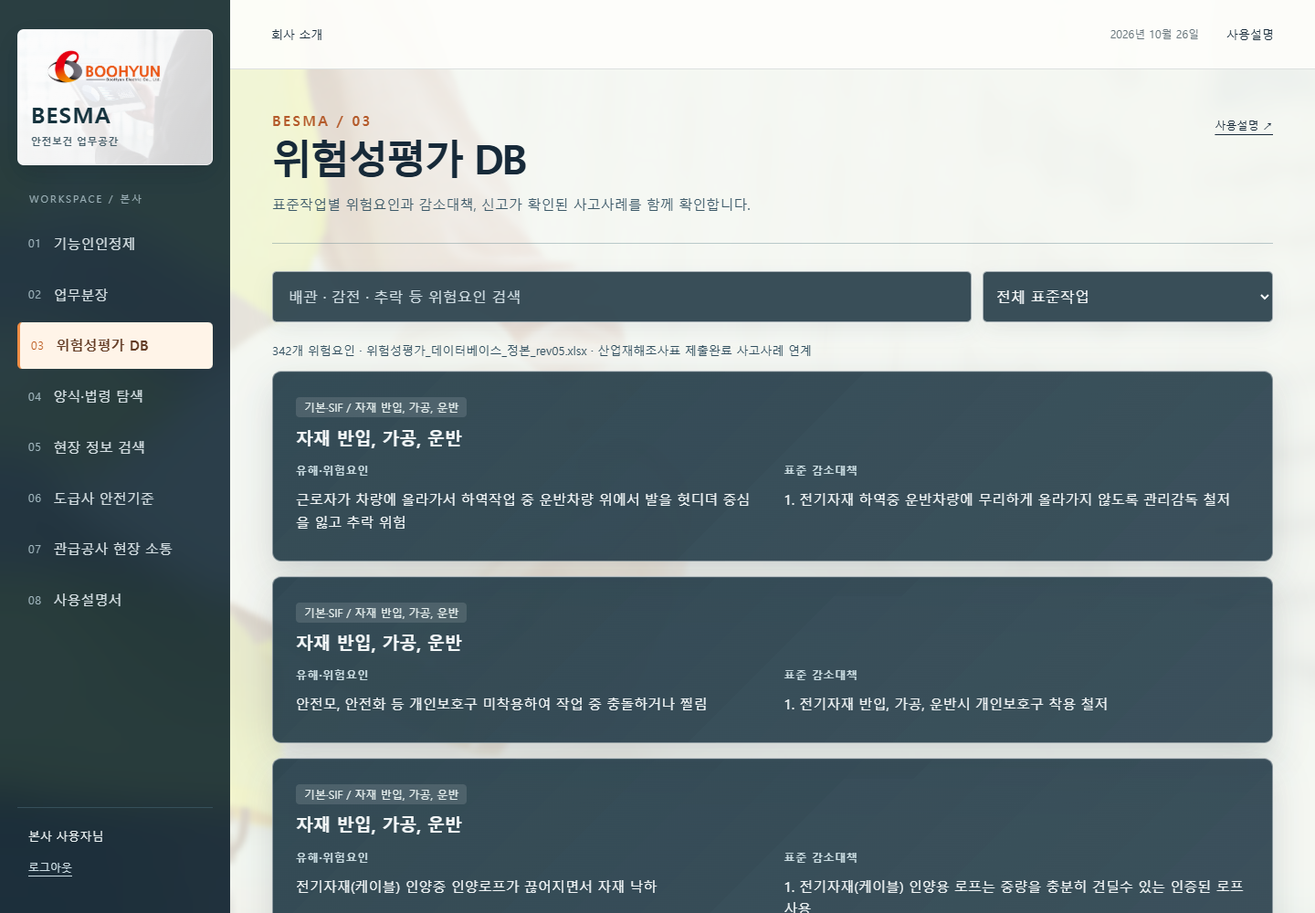
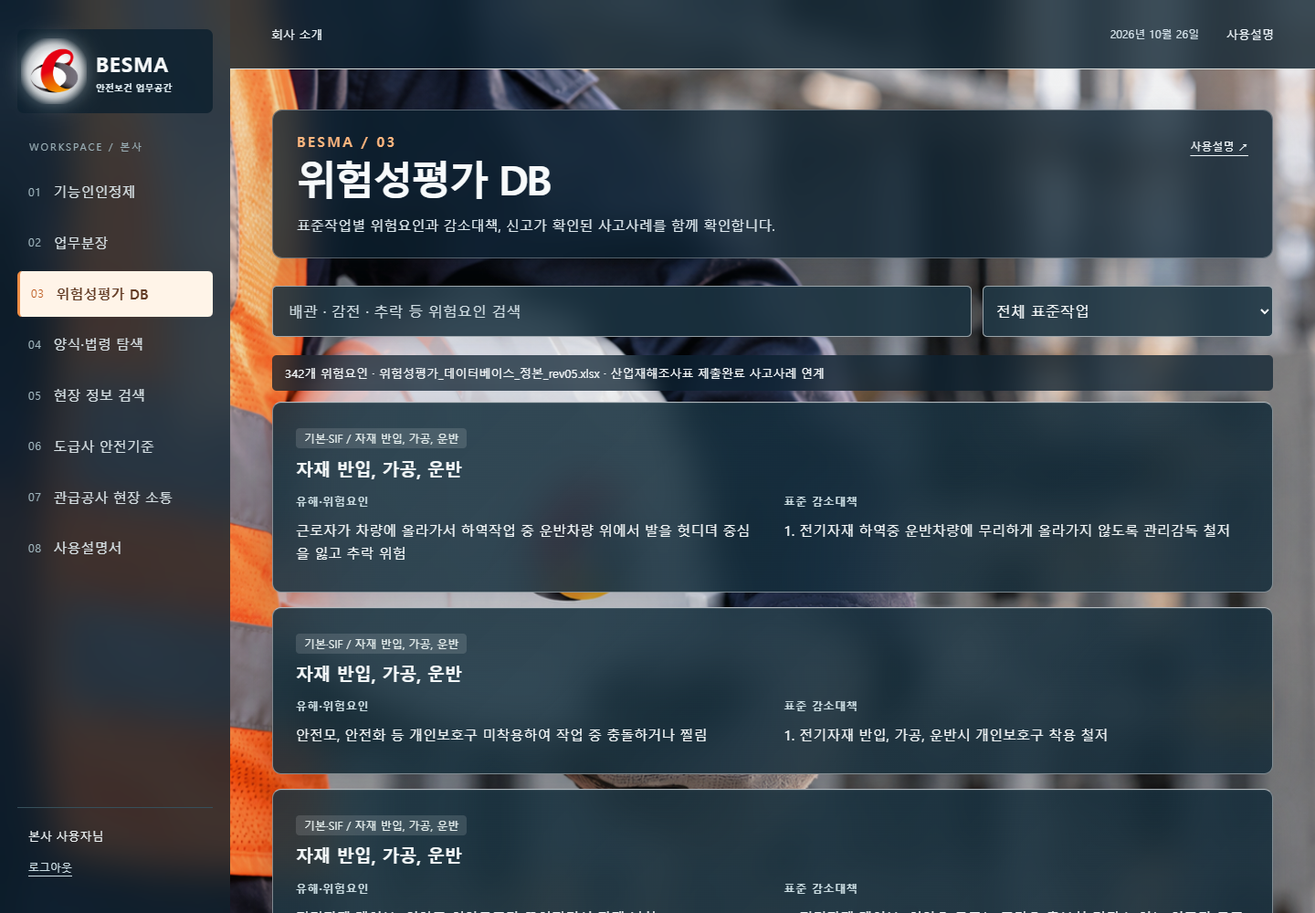
feat: show branded safety background and seal inactive HQ routes before mount

diff --git a/frontend/workspace-nav.js b/frontend/workspace-nav.js
@@ -1,10 +1,13 @@
 /* Adds the HQ information architecture without replacing existing Vue modules. */
 const API='https://api.besma.co.kr';let currentToken='',profile=null,inflight=false,lastPath='';
 const items=[['기능인인정제','functional'],['업무분장','duties'],['위험성평가 DB','risks'],['양식·법령 탐색','forms'],['현장 정보 검색','sites'],['도급사 안전기준','contractors'],['관급공사 현장 소통','government'],['사용설명서','guide']];
-const preserved=/^\/hq-safe\/(functional-eval(?:-monitoring|-rewards-sanctions|\/grade-report)?|documents(?:\/.*)?|document-explorer|document-instances\/.*|government-contact|safety-policy-goals|user-guide)\/?$/;
-function key(){const p=location.pathname;return p.includes('functional-eval')||p.includes('user-guide')?'functional':p.includes('document-explorer')||p.includes('safety-policy-goals')?'forms':p.includes('documents')||p.includes('government-contact')?'government':'functional';}
+const preserved=/^\/hq-safe\/(functional-eval(?:-monitoring|-rewards-sanctions|\/grade-report)?|documents(?:\/.*)?|document-explorer|document-instances\/.*|government-contact|communications|safety-policy-goals|user-guide)\/?$/;
+function key(){const p=location.pathname;return p.includes('functional-eval')||p.includes('user-guide')?'functional':p.includes('document-explorer')||p.includes('safety-policy-goals')?'forms':p.includes('documents')||(p.includes('government-contact')||p.includes('communications'))?'government':'functional';}
 function style(){if(document.getElementById('boohyun-renewal-style'))return;const s=document.createElement('link');s.id='boohyun-renewal-style';s.rel='stylesheet';s.href='/assets/workspace-legacy.css';document.head.append(s);}
-function menus(){const original=document.querySelector('.layout-menu:not([data-workspace-owned])');if(!original||original.dataset.workspaceNav)return;original.dataset.workspaceNav='1';original.hidden=true;original.setAttribute('aria-hidden','true');original.inert=true;const nav=document.createElement('nav');nav.className='layout-menu workspace-owned-menu';nav.dataset.workspaceOwned='1';nav.setAttribute('aria-label','본사 업무');original.before(nav);for(const [i,[title,id]]of items.entries()){const a=document.createElement('a');a.href='/workspace.html#'+id;a.className='workspace-menu-link';a.textContent=String(i+1).padStart(2,'0')+'   '+title;if(id===key())a.classList.add('router-link-active');nav.append(a);if(id==='functional'&&key()==='functional'){const sub=document.createElement('div');sub.className='workspace-subnav';for(const [text,path]of [['평가·등급 조회','functional-eval'],['진행현황','functional-eval-monitoring'],['검토·승인 / 포상·제재','functional-eval-rewards-sanctions']]){const a=document.createElement('a');a.href='/hq-safe/'+path;a.textContent=text;sub.append(a);}nav.append(sub);}if(id==='government'&&key()==='government'){const sub=document.createElement('div');sub.className='workspace-subnav';for(const [text,path]of [['취합','documents'],['소통','government-contact']]){const a=document.createElement('a');a.href='/hq-safe/'+path;a.textContent=text;sub.append(a);}nav.append(sub);}}const brand=document.querySelector('.sidebar-brand:not([data-workspace-owned])');if(brand&&!document.querySelector('.workspace-company-brand')){brand.hidden=true;brand.setAttribute('aria-hidden','true');const link=document.createElement('a');link.href='/company.html';link.className='workspace-company-brand';link.dataset.workspaceOwned='1';const img=document.createElement('img');img.src='/workspace-assets/boohyun-logo.png';img.alt='부현전기';const text=document.createElement('strong');text.textContent='BESMA';const small=document.createElement('small');small.textContent='안전보건 업무공간';link.append(img,text,small);brand.before(link);}const content=document.querySelector('.layout-content');if(content&&!content.querySelector('.workspace-context-help')){const a=document.createElement('a');a.className='workspace-context-help';a.href='/workspace.html#guide/'+key();a.textContent=items.find(x=>x[1]===key())?.[0]+' 사용설명 ↗';const header=content.querySelector('.layout-header');if(header)header.after(a);}}
-function loginDesign(){if(!location.pathname.startsWith('/login'))return;style();const entry=document.querySelector('.login-entry'),shell=document.querySelector('.login-shell');if(entry&&shell&&!shell.dataset.workspaceLogin){shell.dataset.workspaceLogin='1';entry.click();}const stack=document.querySelector('.login-stack');if(stack&&!document.querySelector('.login-company-intro')){const c=document.createElement('div');c.className='login-company-intro';const k=document.createElement('p');k.textContent='BOOHYUN ELECTRIC / BESMA';const h=document.createElement('h1');h.textContent='안전을 살피는\n부현전기 안전보건실';const p=document.createElement('p');p.textContent='현장의 정보와 사람, 안전기준을 연결합니다.';const a=document.createElement('a');a.href='/company.html';a.textContent='BESMA 소개 ↗';c.append(k,h,p,a);stack.before(c);}}
-async function check(){loginDesign();const token=localStorage.getItem('besma_token')||'';if(!token){currentToken='';profile=null;return;}if(inflight)return;if(token!==currentToken){inflight=true;try{const r=await fetch(API+'/workspace/bootstrap',{headers:{Authorization:'Bearer '+token},cache:'no-store'});if(token!==localStorage.getItem('besma_token'))return;currentToken=token;profile=r.ok?await r.json():null;}catch{}finally{inflight=false;}}if(!profile)return;const path=location.pathname;if(path.startsWith('/login')){location.replace('/workspace.html');return;}if(path.startsWith('/hq-safe/')||path.startsWith('/hq-other/')){if(!preserved.test(path)){location.replace('/workspace.html');return;}style();menus();lastPath=path;}}
-new MutationObserver(()=>{if(profile)menus();loginDesign();}).observe(document.documentElement,{childList:true,subtree:true});addEventListener('storage',()=>{currentToken='';profile=null;check();});check();setInterval(check,1500);
+function releaseGate(){document.documentElement.classList.remove('besma-route-gate','besma-login-preparing');document.getElementById('besma-route-status')?.remove();}
+function holdGate(){document.documentElement.classList.add('besma-route-gate');}
+function menus(){const original=document.querySelector('.layout-menu:not([data-workspace-owned])');if(!original||original.dataset.workspaceNav)return;original.dataset.workspaceNav='1';original.hidden=true;original.setAttribute('aria-hidden','true');original.inert=true;const nav=document.createElement('nav');nav.className='layout-menu workspace-owned-menu';nav.dataset.workspaceOwned='1';nav.setAttribute('aria-label','본사 업무');original.before(nav);for(const [i,[title,id]]of items.entries()){const a=document.createElement('a');a.href='/workspace.html#'+id;a.className='workspace-menu-link';a.textContent=String(i+1).padStart(2,'0')+'   '+title;if(id===key())a.classList.add('router-link-active');nav.append(a);if(id==='functional'&&key()==='functional'){const sub=document.createElement('div');sub.className='workspace-subnav';for(const [text,path]of [['평가·등급 조회','functional-eval'],['진행현황','functional-eval-monitoring'],['검토·승인 / 포상·제재','functional-eval-rewards-sanctions']]){const a=document.createElement('a');a.href='/hq-safe/'+path;a.textContent=text;sub.append(a);}nav.append(sub);}if(id==='government'&&key()==='government'){const sub=document.createElement('div');sub.className='workspace-subnav';for(const [text,path]of [['취합','documents'],['소통','government-contact']]){const a=document.createElement('a');a.href='/hq-safe/'+path;a.textContent=text;sub.append(a);}nav.append(sub);}}const brand=document.querySelector('.sidebar-brand:not([data-workspace-owned])');if(brand&&!document.querySelector('.workspace-company-brand')){brand.hidden=true;brand.setAttribute('aria-hidden','true');const link=document.createElement('a');link.href='/company.html';link.className='workspace-company-brand';link.dataset.workspaceOwned='1';const img=document.createElement('img');img.src='/workspace-assets/boohyun-symbol.svg';img.alt='부현전기';const text=document.createElement('strong');text.textContent='BESMA';const small=document.createElement('small');small.textContent='안전보건 업무공간';link.append(img,text,small);brand.before(link);}const content=document.querySelector('.layout-content');if(content&&!content.querySelector('.workspace-context-help')){const a=document.createElement('a');a.className='workspace-context-help';a.href='/workspace.html#guide/'+key();a.textContent=items.find(x=>x[1]===key())?.[0]+' 사용설명 ↗';const header=content.querySelector('.layout-header');if(header)header.after(a);}releaseGate();}
+function loginDesign(){if(!location.pathname.startsWith('/login'))return;style();const logo=document.querySelector('.landing-logo');if(logo&&!logo.src.endsWith('/boohyun-symbol.svg')){logo.src='/workspace-assets/boohyun-symbol.svg';logo.alt='부현전기 심볼';}const entry=document.querySelector('.login-entry'),shell=document.querySelector('.login-shell');if(entry&&shell&&!shell.dataset.workspaceLogin){shell.dataset.workspaceLogin='1';entry.click();}const stack=document.querySelector('.login-stack');if(stack&&!document.querySelector('.login-company-intro')){const c=document.createElement('div');c.className='login-company-intro';const k=document.createElement('p');k.textContent='BOOHYUN ELECTRIC / BESMA';const h=document.createElement('h1');h.textContent='안전지상주의\n부현전기 안전보건실';const p=document.createElement('p');p.textContent='현장의 정보와 사람, 안전기준을 연결합니다.';const a=document.createElement('a');a.href='/company.html';a.textContent='BESMA 소개 ↗';const photo=document.createElement('img');photo.className='login-safety-preview';photo.src='/workspace-assets/boohyun-helmet-underarm-v1.png';photo.alt='부현전기 심볼이 있는 안전모를 옆구리에 낀 모습';c.append(k,h,p,a,photo);stack.before(c);}if(stack)releaseGate();}
+async function check(){loginDesign();const token=localStorage.getItem('besma_token')||'';if(!token){currentToken='';profile=null;if(!location.pathname.startsWith('/login'))releaseGate();return;}if(inflight)return;if(token!==currentToken){inflight=true;try{const r=await fetch(API+'/workspace/bootstrap',{headers:{Authorization:'Bearer '+token},cache:'no-store'});if(token!==localStorage.getItem('besma_token'))return;currentToken=token;profile=r.ok?await r.json():null;}catch{}finally{inflight=false;}}if(!profile){if(location.pathname.startsWith('/hq-'))releaseGate();return;}const path=location.pathname;if(path.startsWith('/login')){location.replace('/workspace.html');return;}if(path.startsWith('/hq-safe/')||path.startsWith('/hq-other/')){if(!preserved.test(path)){holdGate();location.replace('/workspace.html');return;}style();menus();lastPath=path;}}
+const boot=window.__BESMA_READ_BOOTSTRAP__?.();if(boot){currentToken=localStorage.getItem('besma_token')||'';profile=boot;}
+new MutationObserver(()=>{const hq=/^\/hq-(?:safe|other)(?:\/|$)/.test(location.pathname),t=localStorage.getItem('besma_token')||'';if(hq&&t&&(!profile||t!==currentToken||!preserved.test(location.pathname)))holdGate();if(profile&&preserved.test(location.pathname))menus();loginDesign();if(t!==currentToken&&!inflight)check();else if(profile&&hq&&!preserved.test(location.pathname))location.replace('/workspace.html');}).observe(document.documentElement,{childList:true,subtree:true});addEventListener('storage',()=>{currentToken='';profile=null;check();});check();setInterval(check,1500);

diff --git a/frontend/company.html b/frontend/company.html
@@ -1,1 +1,1 @@
-<!doctype html><html lang="ko"><head><meta charset="utf-8"><meta name="viewport" content="width=device-width,initial-scale=1"><meta name="description" content="BESMA 부현전기 안전보건실 · 위험성평가, 기능인인정제, 현장 안전정보와 안전기준"><title>BESMA · 부현전기 안전보건실</title><link rel="stylesheet" href="/assets/company.css"></head><body><header class="company-header"><a href="/" class="company-logo"><img src="/workspace-assets/boohyun-logo.png" alt="부현전기"><span>BESMA<small>부현전기 안전보건실</small></span></a><nav aria-label="회사 안내"><a href="#business">안전보건 업무</a><a href="#about">회사 소개</a><a class="login" href="/login">BESMA 로그인 <span>↗</span></a></nav></header><main><section class="company-hero"><div class="hero-photo" aria-hidden="true"></div><div class="hero-copy"><p class="eyebrow">BOOHYUN ELECTRIC / SAFETY &amp; HEALTH</p><h1>현장의 위험을 살피고,<br>안전한 작업을 이어갑니다.</h1><p>부현전기 안전보건실 BESMA.<br>위험성평가와 현장 정보, 안전기준을 한곳에서 확인하세요.</p><a class="hero-button" href="/login">BESMA 업무공간으로 <span>↗</span></a></div><div class="hero-foot"><span>SAFETY FIRST / BESMA</span><a href="#about">부현전기 알아보기 ↓</a></div></section><section id="about" class="about"><p class="section-no">01 / COMPANY</p><div><h2>기술을 연결하고,<br>신뢰를 쌓아갑니다.</h2><p>부현전기는 전기공사, 정보통신공사와 전문소방시설공사를 수행합니다. 건축과 산업 현장에 필요한 기반시설을 시공하고, 안전한 작업환경을 위한 관리체계를 운영합니다.</p><div class="facts"><div><strong>1999</strong><span>회사 설립</span></div><div><strong>전기 · 통신 · 소방</strong><span>주요 시공 분야</span></div><div><strong>BESMA</strong><span>안전보건 업무 플랫폼</span></div></div></div></section><section id="business" class="business"><div class="business-heading"><p class="section-no">02 / SAFETY &amp; HEALTH</p><h2>현장의 안전을 함께 관리합니다</h2></div><div class="business-list"><article><span>01</span><h3>위험성평가</h3><p>작업별 위험요인과 감소대책 확인</p></article><article><span>02</span><h3>기능인인정제</h3><p>기능·안전 평가와 이력 관리</p></article><article><span>03</span><h3>현장 안전정보</h3><p>담당자·지도·도급사 안전기준 연결</p></article><article><span>04</span><h3>취합과 소통</h3><p>관급 현장 문서와 요청·회신 확인</p></article></div></section><section class="workspace-entry"><p class="section-no">03 / BESMA</p><div><h2>필요한 업무를,<br>한곳에서 정확하게.</h2><p>기능인인정제, 업무 담당자 검색, 위험성평가,<br>현장 정보와 안전기준을 연결합니다.</p><a href="/login">안전보건 업무공간 로그인 ↗</a></div></section></main><footer><strong>주식회사 부현전기</strong><p>서울특별시 영등포구 가마산로48길 16, 신풍프라자 4층</p><a href="tel:028488804">02-848-8804</a><span>BOOHYUN ELECTRIC</span></footer></body></html>
+<!doctype html><html lang="ko"><head><meta charset="utf-8"><meta name="viewport" content="width=device-width,initial-scale=1"><meta name="description" content="BESMA 부현전기 안전보건실 · 위험성평가, 기능인인정제, 현장 안전정보와 안전기준"><title>BESMA · 부현전기 안전보건실</title><link rel="stylesheet" href="/assets/company.css"></head><body><header class="company-header"><a href="/" class="company-logo"><img src="/workspace-assets/boohyun-symbol.svg" alt="부현전기"><span>BESMA<small>부현전기 안전보건실</small></span></a><nav aria-label="회사 안내"><a href="#business">안전보건 업무</a><a href="#about">회사 소개</a><a class="login" href="/login">BESMA 로그인 <span>↗</span></a></nav></header><main><section class="company-hero"><div class="hero-photo" aria-hidden="true"></div><div class="hero-copy"><p class="eyebrow">BOOHYUN ELECTRIC / SAFETY &amp; HEALTH</p><h1>현장의 위험을 살피고,<br>안전한 작업을 이어갑니다.</h1><p>부현전기 안전보건실 BESMA.<br>위험성평가와 현장 정보, 안전기준을 한곳에서 확인하세요.</p><a class="hero-button" href="/login">BESMA 업무공간으로 <span>↗</span></a></div><div class="hero-foot"><span>SAFETY FIRST / BESMA</span><a href="#about">부현전기 알아보기 ↓</a></div></section><section id="about" class="about"><p class="section-no">01 / COMPANY</p><div><h2>기술을 연결하고,<br>신뢰를 쌓아갑니다.</h2><p>부현전기는 전기공사, 정보통신공사와 전문소방시설공사를 수행합니다. 건축과 산업 현장에 필요한 기반시설을 시공하고, 안전한 작업환경을 위한 관리체계를 운영합니다.</p><div class="facts"><div><strong>1999</strong><span>회사 설립</span></div><div><strong>전기 · 통신 · 소방</strong><span>주요 시공 분야</span></div><div><strong>BESMA</strong><span>안전보건 업무 플랫폼</span></div></div></div></section><section id="business" class="business"><div class="business-heading"><p class="section-no">02 / SAFETY &amp; HEALTH</p><h2>현장의 안전을 함께 관리합니다</h2></div><div class="business-list"><article><span>01</span><h3>위험성평가</h3><p>작업별 위험요인과 감소대책 확인</p></article><article><span>02</span><h3>기능인인정제</h3><p>기능·안전 평가와 이력 관리</p></article><article><span>03</span><h3>현장 안전정보</h3><p>담당자·지도·도급사 안전기준 연결</p></article><article><span>04</span><h3>취합과 소통</h3><p>관급 현장 문서와 요청·회신 확인</p></article></div></section><section class="workspace-entry"><p class="section-no">03 / BESMA</p><div><h2>필요한 업무를,<br>한곳에서 정확하게.</h2><p>기능인인정제, 업무 담당자 검색, 위험성평가,<br>현장 정보와 안전기준을 연결합니다.</p><a href="/login">안전보건 업무공간 로그인 ↗</a></div></section></main><footer><strong>주식회사 부현전기</strong><p>서울특별시 영등포구 가마산로48길 16, 신풍프라자 4층</p><a href="tel:028488804">02-848-8804</a><span>BOOHYUN ELECTRIC</span></footer></body></html>

diff --git a/frontend/workspace.js b/frontend/workspace.js
@@ -34,7 +34,7 @@ async function render(){const g=++generation,key=section();blobUrls.forEach(u=>U
  if(key==='duties')await drawDuties(host,g);else if(key==='risks')await drawRisks(host,g);else if(key==='sites')await drawSites(host,g);else if(key==='contractors')await drawContractors(host,g);else if(key==='guide')await drawGuide(host);
  else if(key==='functional'){const overview=await api('/workspace/functional-overview');if(g!==generation)return;if(overview.period){const summary=panel(overview.period.title+' · 기존 평가 현황');for(const [type,label]of [['FUNCTIONAL','기능'],['SAFETY','안전']]){const line=N('p');line.textContent=label+' 평가  '+['S','A','B','C'].map(grade=>grade+' '+(overview.grades.find(x=>x.eval_type===type&&x.grade_code===grade)?.count||0)+'명').join('  /  ');summary.append(line);}host.append(summary);}host.append(N('div','기능·안전 평가기준과 기존 평가·서명 이력을 유지합니다.','info-strip'));if(['HQ_OTHER','HQ_BUDGET_ESTIMATE','HQ_OUTSOURCING_PURCHASE','FUNCTIONAL_EVAL_VIEWER'].includes(context.user.role)){host.append(N('p','본사 조회 계정입니다. 평가 입력·승인은 지정된 담당자가 진행합니다.','top-note'));return;}host.append(links([['평가·등급 조회','기능·안전 평가와 기존 등급 확인','/hq-safe/functional-eval'],['진행현황','평가·서명·승인 진행상황','/hq-safe/functional-eval-monitoring'],['포상·제재 및 검토·승인','안전보건실 검토와 포상·제재 처리','/hq-safe/functional-eval-rewards-sanctions'],['등급 보고서','기존 등급 통계·보고서 확인','/hq-safe/functional-eval/grade-report']]));}
  else if(key==='forms'){let seq=0;const tools=N('div',null,'tools'),list=N('div'),note=N('p',null,'top-note');async function loadForms(q=''){const seqNow=++seq;const d=await api('/workspace/forms?q='+encodeURIComponent(q));if(g!==generation||seqNow!==seq)return;note.textContent=d.items.length+'개 자료 · '+d.source;list.replaceChildren();for(const item of d.items){const p=N('article',null,'policy-item');p.append(N('strong',item.name),N('p',item.path,'small muted'));list.append(p);}if(!d.items.length)list.append(N('p','검색 결과가 없습니다.','empty'));}tools.append(search('양식 · 법령 · 문서명 검색',v=>loadForms(v).catch(e=>tell(e.message))));host.append(tools,note,list);if(!['HQ_OTHER','HQ_BUDGET_ESTIMATE','HQ_OUTSOURCING_PURCHASE','FUNCTIONAL_EVAL_VIEWER'].includes(context.user.role))host.append(links([['문서 열람·다운로드','기존 권한으로 문서 탐색 화면 열기','/hq-safe/document-explorer']]));await loadForms();}
- else if(key==='government'){const d=await api('/workspace/government-sites');if(g!==generation)return;host.append(N('div','현재 활성 관급공사 '+d.items.length+'개 현장','info-strip'));if(!['HQ_OTHER','HQ_BUDGET_ESTIMATE','HQ_OUTSOURCING_PURCHASE','FUNCTIONAL_EVAL_VIEWER'].includes(context.user.role))host.append(links([['취합','관급 현장별 문서 제출·검토 현황','/hq-safe/documents'],['소통','활성 관급 현장과 본사 간 요청·회신','/hq-safe/government-contact']]));else host.append(N('p','취합 처리와 소통은 해당 업무 권한이 있는 담당자가 진행합니다.','top-note'));const p=panel('활성 관급 현장');for(const site of d.items)p.append(N('p',site.name));host.append(p);}
+ else if(key==='government'){const d=await api('/workspace/government-sites');if(g!==generation)return;host.append(N('div','현재 활성 관급공사 '+d.items.length+'개 현장','info-strip'));if(!['HQ_OTHER','HQ_BUDGET_ESTIMATE','HQ_OUTSOURCING_PURCHASE','FUNCTIONAL_EVAL_VIEWER'].includes(context.user.role))host.append(links([['취합','관급 현장별 문서 제출·검토 현황','/hq-safe/documents'],['소통','활성 관급 현장과 본사 간 요청·회신','/hq-safe/communications']]));else host.append(N('p','취합 처리와 소통은 해당 업무 권한이 있는 담당자가 진행합니다.','top-note'));const p=panel('활성 관급 현장');for(const site of d.items)p.append(N('p',site.name));host.append(p);}
  }catch(e){if(g===generation)host.replaceChildren(N('p',e.message,'error'),B('다시 시도',render));}}
 async function init(){if(!token){$('content').replaceChildren(N('h1','본사 업무공간'),N('p','로그인 후 이용해 주세요.','empty'),A('BESMA 로그인','/login?redirect='+encodeURIComponent('/workspace.html'),'button primary'));return;}try{context=await api('/workspace/bootstrap');$('user-label').textContent=context.user.name+'님';$('clock').textContent=new Intl.DateTimeFormat('ko-KR',{dateStyle:'long',timeZone:'Asia/Seoul'}).format(new Date());for(const [i,key]of Object.keys(names).entries()){const a=A('','#'+key);a.append(N('b',String(i+1).padStart(2,'0')),N('span',names[key]));$('menus').append(a);}await render();}catch(e){$('content').replaceChildren(N('p',e.message,'error'),A('로그인','/login','button'));}}
 $('logout').onclick=()=>{context=null;cache={};generation++;blobUrls.forEach(u=>URL.revokeObjectURL(u));for(const key of ['besma_token','besma_test_persona','besma_test_site_context_id'])localStorage.removeItem(key);$('content').replaceChildren();location.replace('/login');};

diff --git a/frontend/workspace-legacy.css b/frontend/workspace-legacy.css
@@ -24,3 +24,14 @@
 .layout-sidebar{background:rgba(13,36,49,.88)!important;backdrop-filter:blur(22px)}.layout-content{background:linear-gradient(rgba(245,246,242,.88),rgba(245,246,242,.9)),url('/workspace-assets/project-0.jpg') center/cover fixed!important}.workspace-company-brand{box-shadow:0 9px 25px #06192730;backdrop-filter:blur(18px)}
 @media(prefers-reduced-transparency:reduce){.login-card{background:#f7f8f3!important;backdrop-filter:none!important}.login-form input{background:#fff!important}}
 .layout-sidebar{overflow-y:auto!important;overscroll-behavior:contain;scrollbar-width:thin}
+/* Preserve the vivid safety photograph; frost only the reading surfaces. */
+.login-page{background:linear-gradient(90deg,rgba(8,24,36,.12),rgba(8,24,36,.03)),url('/workspace-assets/boohyun-helmet-underarm-v1.png') center/cover fixed!important}
+.login-company-intro{max-width:410px!important;padding:23px 24px!important;background:rgba(9,28,41,.76);backdrop-filter:blur(15px);border:1px solid #ffffff35;border-radius:14px;box-shadow:0 20px 50px #071e3425}.login-company-intro h1{font-size:clamp(30px,3vw,42px)!important;letter-spacing:-.04em!important;line-height:1.5!important;margin:18px 0!important}.login-company-intro>p{font-size:14px!important}.login-company-intro a{margin-top:14px!important}.login-card{background:rgba(12,32,47,.75)!important;color:#f4f7f8!important;border-color:#ffffff70!important}.login-card-title,.login-label,.login-close,.login-issue-text{color:#f0f6f8!important}.login-form input{background:rgba(7,25,38,.59)!important;color:#fff!important;border-color:#c7d9e58c!important}.login-form input::placeholder{color:#d0dce3!important}.login-mobile-tip{background:rgba(6,25,39,.4)!important;color:#d8e6ed!important;border-color:#7898ad55!important}.login-issue-btn,.login-cancel{background:rgba(255,255,255,.12)!important;color:#f4f7fa!important;border-color:#91adbe80!important}
+.landing-header{background:rgba(12,33,47,.68)!important;border:1px solid #ffffff38!important;padding:15px 24px!important;backdrop-filter:blur(16px)!important}.landing-logo{width:84px!important;height:76px!important;padding:7px!important;object-fit:contain!important;filter:drop-shadow(0 0 13px #ffffffc0);background:radial-gradient(ellipse,#fffffff0 35%,#ffffffa8 56%,#ffffff00 76%)!important}.platform-brand,.platform-brand strong{color:#fff!important}.platform-brand span{color:#dbe7ed!important}.landing-footer{color:#eff5f7!important;text-shadow:0 1px 4px #000}
+.workspace-company-brand{display:grid;grid-template-columns:72px 1fr;column-gap:12px;row-gap:0;align-items:center;background:none;border:0;box-shadow:none;padding:12px 8px;color:#f7fafb}.workspace-company-brand img{grid-column:1;grid-row:1/3;width:72px;height:72px;padding:7px;object-fit:contain;background:radial-gradient(ellipse,#fffffff0 35%,#ffffff99 58%,transparent 76%);filter:drop-shadow(0 0 10px #ffffff90)}.workspace-company-brand strong{grid-column:2;grid-row:1;align-self:end}.workspace-company-brand small{grid-column:2;grid-row:2;align-self:start;color:#e1edf2}
+.layout-content{background:linear-gradient(#1029360f,#1029361a),url('/workspace-assets/boohyun-helmet-underarm-v1.png') center/cover fixed!important}
+@media(max-width:900px){.login-page{background-position:46% center!important}.landing-header{padding:13px 17px!important}.landing-logo{width:66px!important;height:62px!important}.login-company-intro{max-width:100%!important;padding:18px 20px!important;margin:0!important}.login-company-intro h1{font-size:27px!important}.login-company-intro{min-height:210px!important;background:linear-gradient(90deg,#0a2338c9,#0b273d73),url('/workspace-assets/boohyun-helmet-underarm-v1.png') 42% 52%/cover}.login-company-intro h1{max-width:260px!important}.login-company-intro a{margin-top:8px!important}.login-card{transform:none}}
+@media(prefers-reduced-transparency:reduce){.login-card{background:#173544!important;backdrop-filter:none!important}.login-form input{background:#102b3e!important}}
+.login-company-intro{box-sizing:border-box!important}
+.login-safety-preview{display:none}@media(max-width:900px){.landing-header{flex-direction:row!important;gap:15px!important}.login-company-intro{background:rgba(9,28,41,.77)!important;min-height:0!important;width:100%!important}.login-safety-preview{display:block;width:100%;height:175px;object-fit:cover;object-position:46% 62%;border-radius:8px;margin-top:16px;box-shadow:0 8px 22px #061a2a35}.login-company-intro h1{max-width:none!important}}
+.login-company-intro h1{font-size:clamp(27px,2.65vw,38px)!important}@media(max-width:900px){.login-company-intro h1{font-size:27px!important}}

diff --git a/frontend/workspace.html b/frontend/workspace.html
@@ -1,1 +1,1 @@
-<!doctype html><html lang="ko"><head><meta charset="utf-8"><meta name="viewport" content="width=device-width,initial-scale=1"><meta name="robots" content="noindex,nofollow"><title>BESMA · 부현전기 업무공간</title><link rel="stylesheet" href="/assets/workspace.css"><script type="module" src="/assets/workspace.js"></script></head><body class="workspace"><a class="skip" href="#content">본문으로 이동</a><aside id="sidebar"><a class="brand" href="/company.html"><img src="/workspace-assets/boohyun-logo.png" alt="부현전기"><span>BESMA<small>안전보건 업무공간</small></span></a><p class="nav-caption">WORKSPACE / 본사</p><nav id="menus" aria-label="주요 업무"></nav><div class="sidebar-foot"><span id="user-label"></span><button id="logout" type="button">로그아웃</button></div></aside><div class="workspace-main"><header class="topbar"><button id="mobile-menu" type="button" aria-label="업무 메뉴 열기" aria-expanded="false">메뉴</button><a href="/company.html">회사 소개</a><span id="clock"></span><a href="#guide" id="help-top">사용설명</a></header><main id="content" tabindex="-1"><p role="status">업무공간을 불러오고 있습니다.</p></main><footer>BOOHYUN ELECTRIC <span>현장의 안전을 함께 지킵니다.</span></footer></div><div id="toast" role="status" aria-live="polite"></div></body></html>
+<!doctype html><html lang="ko"><head><meta charset="utf-8"><meta name="viewport" content="width=device-width,initial-scale=1"><meta name="robots" content="noindex,nofollow"><title>BESMA · 부현전기 업무공간</title><link rel="stylesheet" href="/assets/workspace.css"><script type="module" src="/assets/workspace.js"></script></head><body class="workspace"><a class="skip" href="#content">본문으로 이동</a><aside id="sidebar"><a class="brand" href="/company.html"><img src="/workspace-assets/boohyun-symbol.svg" alt="부현전기"><span>BESMA<small>안전보건 업무공간</small></span></a><p class="nav-caption">WORKSPACE / 본사</p><nav id="menus" aria-label="주요 업무"></nav><div class="sidebar-foot"><span id="user-label"></span><button id="logout" type="button">로그아웃</button></div></aside><div class="workspace-main"><header class="topbar"><button id="mobile-menu" type="button" aria-label="업무 메뉴 열기" aria-expanded="false">메뉴</button><a href="/company.html">회사 소개</a><span id="clock"></span><a href="#guide" id="help-top">사용설명</a></header><main id="content" tabindex="-1"><p role="status">업무공간을 불러오고 있습니다.</p></main><footer>BOOHYUN ELECTRIC <span>현장의 안전을 함께 지킵니다.</span></footer></div><div id="toast" role="status" aria-live="polite"></div></body></html>

diff --git a/frontend/workspace-boot.js b/frontend/workspace-boot.js
@@ -1,0 +1,30 @@
+/* Parser-time route gate. HQ landing pages do not download or mount the legacy app. */
+(()=>{
+ const scripts=__BESMA_LEGACY_SCRIPTS__,nav=__BESMA_NAV_SCRIPT__;
+ const root=document.documentElement,path=location.pathname;
+ const hq=/^\/hq-(?:safe|other)(?:\/|$)/.test(path);
+ const preserved=/^\/hq-safe\/(functional-eval(?:-monitoring|-rewards-sanctions|\/grade-report)?|documents(?:\/.*)?|document-explorer|document-instances\/.*|government-contact|communications|safety-policy-goals|user-guide)\/?$/;
+ const ready=document.readyState==='loading'?new Promise(r=>document.addEventListener('DOMContentLoaded',r,{once:true})):Promise.resolve();
+ function release(){root.classList.remove('besma-route-gate','besma-login-preparing');document.getElementById('besma-route-status')?.remove();}
+ if(hq)root.classList.add('besma-route-gate');else if(path.startsWith('/login'))root.classList.add('besma-login-preparing');
+ ready.then(()=>{if(root.classList.contains('besma-route-gate')||root.classList.contains('besma-login-preparing')){const status=document.createElement('div');status.id='besma-route-status';status.setAttribute('role','status');status.textContent='BESMA 업무공간을 열고 있습니다.';document.body.append(status);}});
+ let loaded=false;
+ const add=src=>new Promise((resolve,reject)=>{const s=document.createElement('script');s.type='module';s.async=false;s.src=src;s.onload=resolve;s.onerror=reject;document.head.append(s);});
+ async function legacy(){if(loaded)return;loaded=true;await ready;await add(nav);for(const src of scripts)await add(src);}
+ async function route(){
+  const token=localStorage.getItem('besma_token')||'';
+  if(!hq||!token){if(hq)release();return legacy();}
+  try{
+   const response=await fetch('https://api.besma.co.kr/workspace/bootstrap',{headers:{Authorization:'Bearer '+token},cache:'no-store',signal:AbortSignal.timeout(8000)});
+   if(token!==localStorage.getItem('besma_token'))return location.replace('/login');
+   if(!response.ok){release();return legacy();}
+   const data=await response.json();
+   window.__BESMA_READ_BOOTSTRAP__=()=>localStorage.getItem('besma_token')===token?data:null;
+   if(!preserved.test(path)){location.replace('/workspace.html');return;}
+   await legacy();
+  }catch{
+   await ready;const status=document.getElementById('besma-route-status');if(status){status.textContent='연결을 확인한 뒤 다시 시도해 주세요. ';const button=document.createElement('button');button.textContent='다시 시도';button.onclick=()=>location.reload();status.append(button);}
+  }
+ }
+ route();
+})();

diff --git a/frontend/workspace.css b/frontend/workspace.css
@@ -19,3 +19,5 @@
 @media(prefers-reduced-transparency:reduce){.workspace-main{background:#eff3ee}.panel,.site-card,.table-scroll,.risk-item,.policy-item,.guide-grid a,.section-links{background:#193743;backdrop-filter:none}.tools input,.tools select{background:#193743}.topbar{background:#f7f9f4}}
 .sidebar-foot #logout{padding:0;min-height:34px;justify-content:flex-start;color:#cbdce3;font-size:12px;border:0;background:transparent;font-weight:500;text-decoration:underline;text-underline-offset:4px}
 #sidebar{overflow-y:auto;overscroll-behavior:contain;scrollbar-width:thin;scrollbar-color:#738890 transparent}#sidebar>*{flex-shrink:0}
+.workspace{background-image:url('/workspace-assets/boohyun-helmet-underarm-v1.png');background-position:center}.workspace-main{background:rgba(11,32,46,.055);backdrop-filter:none}.topbar{background:rgba(11,33,47,.78);color:#eef5f9}.topbar #clock{color:#d3e1e9}.heading{background:rgba(12,34,49,.77);backdrop-filter:blur(18px);border:1px solid #ffffff4a;padding:22px 26px;border-radius:11px;box-shadow:0 14px 36px #0b263c20;color:#f7fafb}.heading p{color:#dce7ec}.heading .help-link{color:#f0f6f9}.heading .eyebrow{color:#ffb77f!important}.results-note,.top-note{color:#f4f8fa;background:rgba(10,32,47,.73);backdrop-filter:blur(12px);padding:9px 14px;border-radius:5px}.brand{display:grid;grid-template-columns:72px 1fr;gap:10px;background:none;border:0;box-shadow:none;padding:10px 4px;color:#f6f9fa;align-items:center}.brand img{width:72px;height:72px;padding:6px;object-fit:contain;background:radial-gradient(ellipse,#fffffff5 32%,#ffffffa6 57%,transparent 76%);filter:drop-shadow(0 0 11px #ffffffa0)}.brand span{font-size:22px;letter-spacing:.045em}.brand small{font-size:10px;letter-spacing:0;color:#deebf1}#sidebar{background:rgba(10,31,45,.78)}.info-strip{background:rgba(15,37,52,.85);color:#f5e7d6;border-left-color:#ef9a59}.empty,.error{background:rgba(15,37,52,.9);color:#f4f8fa;border-color:#ffffff55}.error{color:#ffd2ba}footer{background:rgba(11,32,47,.76);color:#e0eaf0}
+@media(max-width:740px){.workspace-main{background:rgba(11,32,46,.06)}.heading{padding:20px 18px}.brand img{width:72px;height:72px}.brand{padding:10px 4px}.results-note{font-size:12px}}

diff --git a/frontend/company.css b/frontend/company.css
@@ -4,3 +4,5 @@
 .company-header{background:linear-gradient(110deg,rgba(255,255,255,.95),rgba(255,255,255,.86)),url('/workspace-assets/project-2.jpg') center/cover;border-bottom:1px solid #d6dfdb}.company-logo{gap:22px}.company-logo img{width:155px;height:55px;object-fit:contain}.company-logo small{font-size:10px;letter-spacing:.08em}
 @media(max-width:740px){.company-header{height:94px;padding:12px 18px;gap:14px}.company-logo{gap:12px;font-size:19px}.company-logo img{width:105px;height:42px}.company-logo small{font-size:9px;letter-spacing:0}.company-header .login{font-size:11px;padding:10px}.login span{display:none}}
 @media(max-width:360px){.company-logo img{width:86px}.company-logo{gap:8px;font-size:17px}.company-header{gap:8px;padding:12px}.company-header .login{padding:9px 8px}}
+.company-header{background:rgba(16,39,53,.78);color:#f5f9fa;backdrop-filter:blur(18px);border-bottom:1px solid #ffffff45}.company-logo img{width:70px;height:68px;padding:6px;object-fit:contain;filter:drop-shadow(0 0 11px #fff9);background:radial-gradient(ellipse,#fffffff5 32%,#ffffffb3 57%,transparent 76%)}.company-logo small{color:#e0eaf0}.hero-photo{background-image:linear-gradient(90deg,#0b24327a 0%,#0b243200 60%,#0b243208 100%),url('/workspace-assets/boohyun-helmet-underarm-v1.png')}.hero-copy{max-width:480px;padding:25px 28px;background:rgba(10,31,46,.76);backdrop-filter:blur(15px);border:1px solid #ffffff42;border-radius:13px}.hero-copy h1{font-size:clamp(32px,3.3vw,47px)}.hero-photo:after{background:linear-gradient(0deg,#0c263a70,transparent 30%)}
+@media(max-width:740px){.company-logo img{width:49px;height:49px;padding:4px}.company-header{background:rgba(16,39,53,.9)}.hero-copy{margin:25px 20px 85px;padding:21px;max-width:calc(100% - 40px)}.hero-copy h1{font-size:33px}.hero-photo{background-position:45% center;background-image:linear-gradient(#0c263a12,#0c263a12),url('/workspace-assets/boohyun-helmet-underarm-v1.png')}}

diff --git a/frontend/government-workspace.js b/frontend/government-workspace.js
@@ -125,7 +125,7 @@ async function reconcile(){
  if(!token)return;
  if(!context){if(pending)return;pending=true;try{context=await api('/government-contact/access');}catch{return;}finally{pending=false;}}
  hideLegacyContact();
- const menu=document.querySelector('.layout-menu');
+ const menu=document.querySelector('.workspace-owned-menu')?null:document.querySelector('.layout-menu');
  if(menu&&context.can_manage_forms&&!localStorage.getItem('besma_test_persona')&&!document.querySelector('.gov-settings-menu')){const b=button('관급 양식 공개 설정',()=>location.assign('/hq-safe/settings#gov-settings'));b.className='gov-settings-menu gov-contact-menu';b.style.order='20';menu.append(b);}
  if(context.can_manage_forms&&!localStorage.getItem('besma_test_persona')&&location.pathname==='/hq-safe/settings'){
   const host=document.querySelector('.doc-settings-page');if(host&&!host.querySelector('#gov-settings')){settingsRoot=node('section',undefined,'collection-monitor');settingsRoot.id='gov-settings';host.querySelector('header')?.after(settingsRoot);if(!settingsRoot.isConnected)host.prepend(settingsRoot);loadSettings();}

diff --git a/HELMET_IMAGE_PROMPTS.md b/HELMET_IMAGE_PROMPTS.md
@@ -1,0 +1,30 @@
+# BESMA 안전모 배경 생성 기록
+
+2026-10-26 / built-in image_gen 도구 사용. CLI/API 키 사용 없음.
+
+최종 자산: frontend/workspace-assets/boohyun-helmet-underarm-v1.png
+
+원본 로고: D:/JSI/safety-workbench/assets/branding/boohyun-logo.png. 심볼만 사용하며 회사명 글자는 생략. 웹 심볼은 원본 PNG의 심볼 영역을 SVG viewBox로 표시하여 색·비율을 보존한다.
+
+용도: 안전모를 옆구리에 낀 사진. 일반 메뉴·로그인 배경의 색을 선명하게 하고, 글자·패널과 심볼을 겹치지 않게 배치한다. 로고 뒤에만 밝은 안개 효과.
+
+## 첫 생성
+
+Use case: compositing / photorealistic-natural.
+Asset type: wide photographic website background for BESMA, Boohyun Electric safety and health office. Generate ONLY a photograph, no website UI.
+Input 1 is the exact original Boohyun logo asset, supporting insert. Use ONLY its left red/orange/graphite loop SYMBOL. Omit ALL company lettering, BOOHYUN, English tagline and any invented letters. Preserve the supplied symbol geometry and colors; treat it as a pasted original decal, never redesign it.
+Input 2 is a reference for a worker safely holding a clean white hard hat. Make a new premium but natural electrical-safety photograph.
+Primary subject: a clearly visible large WHITE hard hat held securely by gloved hands, front-facing broad surface with the original Boohyun SYMBOL ONLY centered as a crisp small professionally applied decal. It must read as the same supplied company symbol, not a new logo.
+Composition: landscape 16:9. Main helmet and its symbol centered approximately x=52%, y=66%, helmet spans x=35–64%, y=39–87%. Worker torso largely on the far LEFT, wearing navy workwear and orange reflective safety vest. Crop head out, no identifiable face. Keep the left upper-middle relatively calm and dark for later white text; rightmost third softly defocused for a glass login card. Helmet and decal must remain clear in the unobstructed center strip between left text and right card. Do not put subject far left or under the right card.
+Scene: orderly electrical worksite with subtle conduit/cable-tray cues, softly blurred. Safety centered, no dramatic building construction or unsafe act.
+Lighting: natural bright side-light makes the white helmet and orange vest distinct. Background medium charcoal/blue-gray with moderate contrast, NOT black, NOT dim, NOT a dark overlay. Preserve photographic detail, visible hands, white material texture, soft realistic highlights.
+No superimposed titles, letters, slogans, watermarks, extra logos, UI or labels. The only mark is the exact supplied standalone symbol decal on the helmet.
+
+## 최종 자세 수정
+
+Use case: precise-object-edit.
+Edit the first photograph. Change ONLY the worker's pose and helmet placement: the worker must TUCK THE WHITE HELMET UNDER ONE ARM AGAINST THE SIDE OF THEIR WAIST/HIP (옆구리에 안전모를 끼고 있는 자세). The worker's torso is on the left, the helmet sits against the worker's right-side hip in the center of the image. The upper arm/forearm casually rests over and around the helmet; one gloved hand stabilizes the brim. The second arm is relaxed/outside the frame. Do NOT hold the helmet out in front of the abdomen, and do NOT use two cupped hands underneath. Make it unmistakably a helmet tucked at the side under an arm.
+Maintain the exact existing Boohyun standalone red/orange/graphite symbol on the exposed outer side of the helmet. The second input is its original source: use only the left standalone symbol, no BOOHYUN letters or any company text. Do not redesign or alter its colors or geometry.
+Preserve the realistic navy workwear, orange reflective safety vest, white hard hat, clean electrical worksite, visible natural lighting, landscape aspect ratio and premium natural photograph quality. No face or head, no UI, no titles, no other text.
+Keep the white helmet and outward-facing decal clearly visible around the horizontal center (x approximately 48–56%) and lower-middle (y approximately 60–70%), to remain visible between a future left-side website heading and a future right-side glass login card. Do not darken the picture.
+
